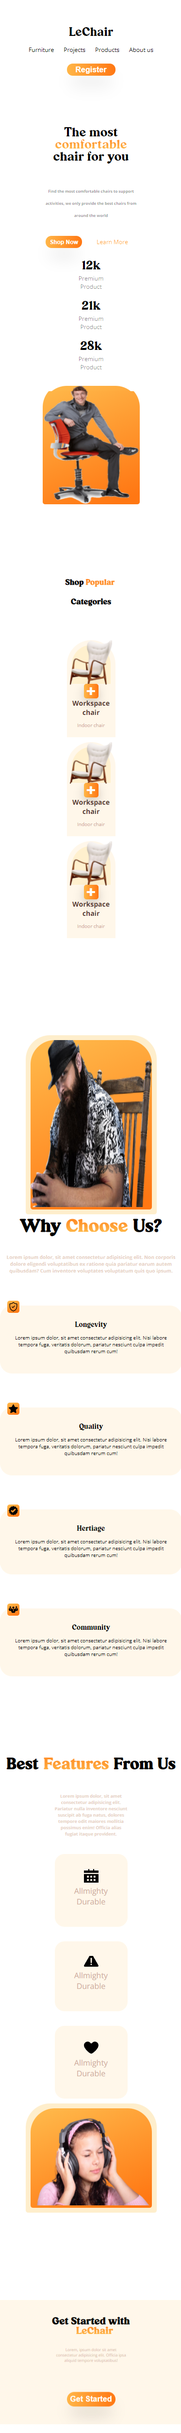
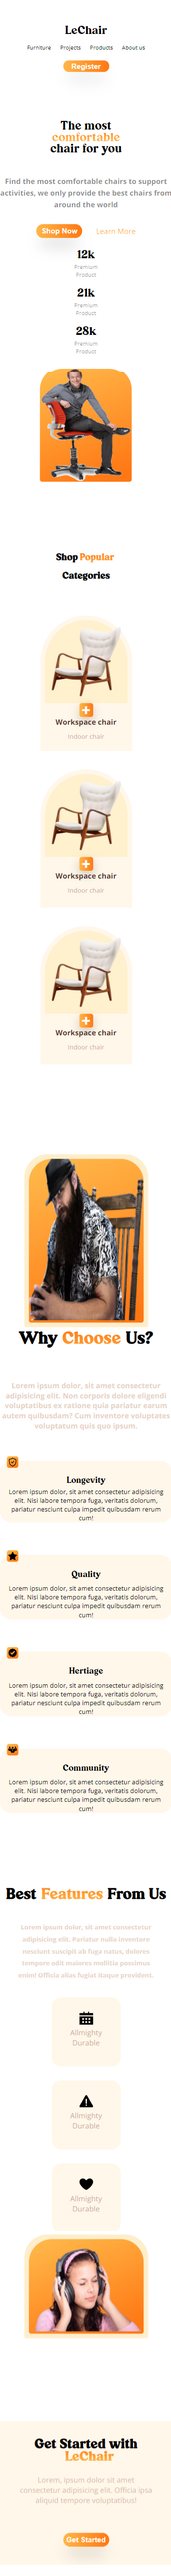
finalll

Changed region(s): [[0.0311, 0.0, 0.9633, 1.0], [0.839, 0.8713, 0.8701, 0.9025]]

diff --git a/rk1/styles/style.css b/rk1/styles/style.css
@@ -574,7 +574,7 @@ footer{
     
     .left_section_descr{
         margin-top: 50px;
-        font-size: 8px;
+        font-size: 16px;
         line-height: 25px;
         font-weight: 600;
         color: rgba(0, 0, 0, 0.47);
@@ -609,11 +609,11 @@ footer{
     .content_btn{
         margin-right: 30px;
         border-radius: 20px;
-        width: 75px;
-        height: 25px;
+        width: 100px;
+        height: 30px;
         border: none;
         color: white;
-        font-size: 12px;
+        font-size: 16px;
         font-weight: 700;
         background: linear-gradient(90deg, #FFB648 0%, #FF7713 100%);
         box-shadow: 0px 24px 34px -9px rgba(0, 0, 0, 0.25);
@@ -622,8 +622,9 @@ footer{
     .content_nav_section{
         margin-top: 30px;
         display: flex;
+        justify-content: center;
         align-items: center;
-        font-size: 12px;
+        font-size: 16px;
     }
     .content_nav_section a{
         text-decoration: none;
@@ -673,7 +674,7 @@ footer{
     }
     .chairs_title h1{
         height: 40px;
-        font-size: 16px;
+        font-size: 20px;
     }
     
     .top{
@@ -690,15 +691,16 @@ footer{
     }
     .chairs_blocks_block{
         position: relative;
-        margin-top: 10px;
+        margin-top: 20px;
     }
     .chairs_blocks_block:not(:last-child){
         margin-right: 0px;
+        margin-bottom: 20px;
     }
     
     .chairs_blocks_block_frame{
-        height: 200px;
-        width: 100px;
+        height: 300px;
+        width: 200px;
         background: #FFF7EA;
         border-radius: 100px 100px 0px 0px;
         display: flex;
@@ -706,16 +708,16 @@ footer{
         align-items: center;
     }
     .chairs_blocks_block_img{
-        width: 100px;
-        height: 100px;
+        width: 150px;
+        height: 150px;
     }
     .chairs_blocks_block_img_frame{
         background-color: #FFF0CE;
         display: flex;
         justify-content: center;
         align-items: center;
-        height: 80px;
-        width: 80px;
+        height: 180px;
+        width: 180px;
         border-radius: 100px 100px 0px 0px;
         margin-top: 10px;
     }
@@ -727,12 +729,12 @@ footer{
     .chairs_blocks_block_title{
         color: #54302A;
         font-weight: 700;
-        font-size: 14px;
+        font-size: 16px;
     }
     .chairs_blocks_block_material{
         margin-top: 10px;
         color: #D1AD9B;
-        font-size: 10px;
+        font-size: 14px;
     }
     
     .chairs_blocks_block_frame button{
@@ -795,6 +797,7 @@ footer{
         font-family: 'Ranille';
         font-size: 18px;
         width: 100%;
+        height: 70px;
     }
     
     .hat_section_right_title h1:not(:last-child){
@@ -804,7 +807,7 @@ footer{
     
     .hat_section_right_descr{
         margin-top: 45px;
-        font-size: 10px;
+        font-size: 16px;
         width: 100%;
         font-weight: 600;
         color: #E7D3C7;
@@ -846,12 +849,12 @@ footer{
     
     .hat_section_right_blocks_block_frame_title{
         font-family: 'Ranille';
-        font-size: 14px;
+        font-size: 18px;
         margin-bottom: 15px;
     }
     
     .hat_section_right_blocks_block_frame_descr{
-        font-size: 10px;
+        font-size: 14px;
         
     }
     
@@ -883,8 +886,9 @@ footer{
         
     }
     .earphone_section_left_descr{
-        font-size: 9px;
-        width: 150px;
+        font-size: 14px;
+        width: 300px;
+        line-height: 26px;
         font-weight: 600;
         color: #E7D3C7;
     }
@@ -971,7 +975,7 @@ footer{
         display: flex;
         flex-direction: column;
         align-items: center;
-        font-size: 10px;
+        font-size: 14px;
         font-weight: 600;
         font-family: 'Ranille';
         padding: 30px 0 30px 0;
@@ -983,9 +987,9 @@ footer{
     
     .poster_descr{
         color: #DBBCAC;
-        font-size: 8px;
+        font-size: 16px;
         margin-bottom: 60px;
-        width: 150px;
+        width: 300px;
     }
     
     .poster button{
